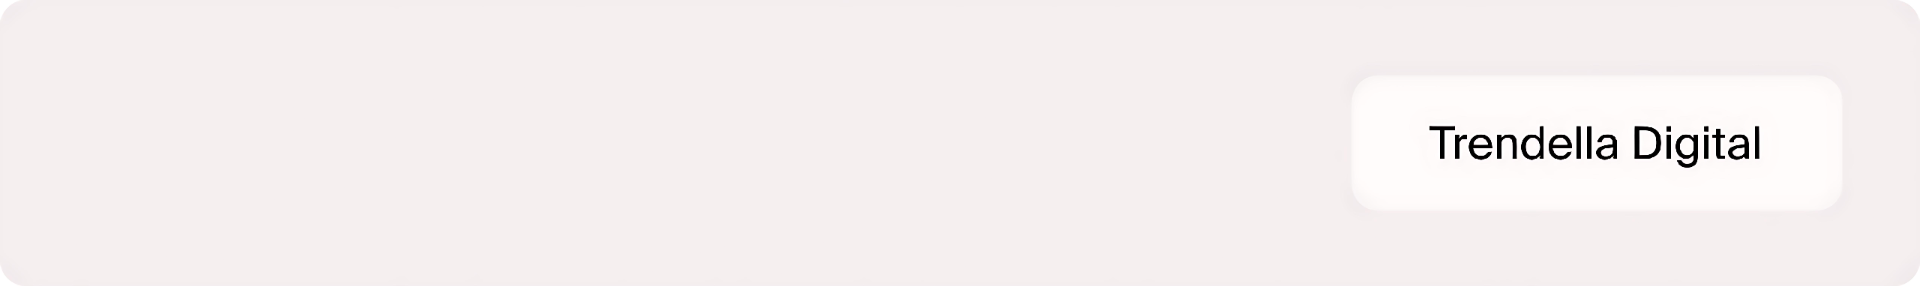
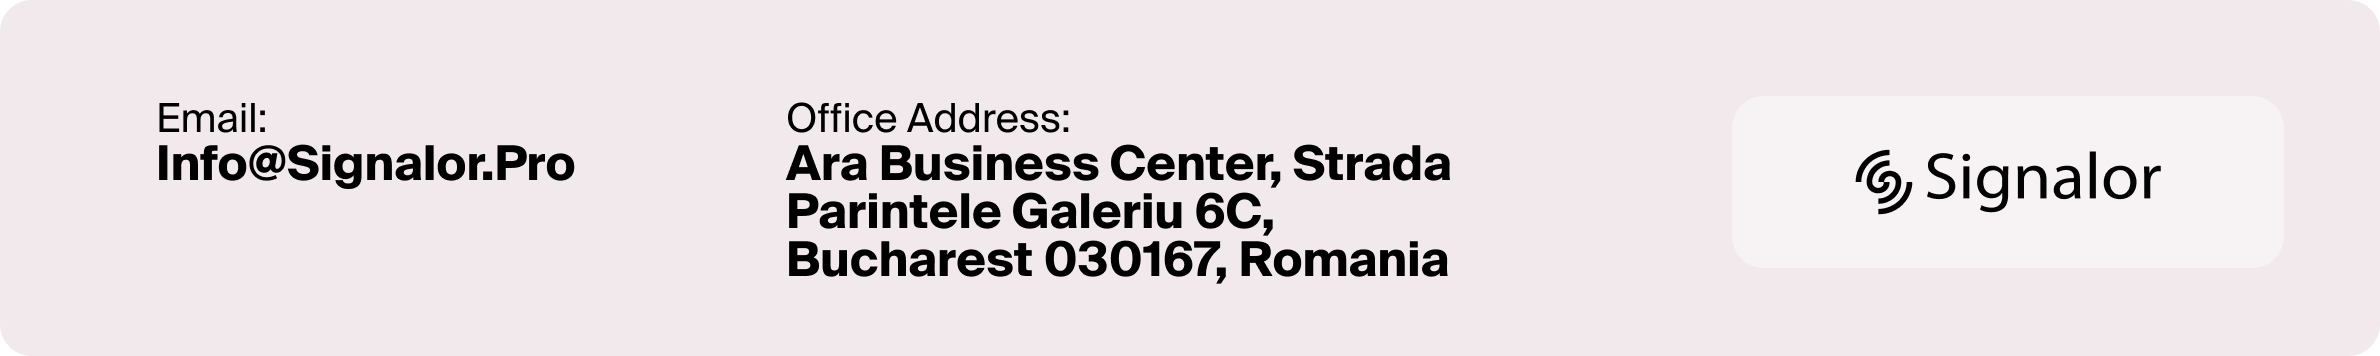
change brandname in content and ui

diff --git a/src/features/email-letters/request-form-body.tsx b/src/features/email-letters/request-form-body.tsx
@@ -9,13 +9,13 @@ export const requestFormBody = ({ username }: { username: string }) => {
         </header>
         <div class="main">
           <p style="font-size: 24px; color: #0D0D0D;">Hi, ${username}</p>
-          <p class="text">Thank you for placing your order with <strong style="font-weight: 700;">Trendella Digital</strong> — we’re excited to support your next stage of growth.</p>
+          <p class="text">Thank you for placing your order with <strong style="font-weight: 700;">Signalor</strong> — we’re excited to support your next stage of growth.</p>
           <p class="text">We’ve successfully received your request, and our team is preparing the next steps. If you selected bank transfer as your payment method, you’ll receive a separate email shortly with full payment instructions.</p>
           <p class="text">Once payment is confirmed, we’ll begin work on your selected service and guide you through the onboarding or setup process.</p>
           <p class="text">Here’s what you can expect: clear communication, expert guidance, and a strategy that actually fits how you want to grow — not just what others say you should do.</p>
-          <p class="text">If you have any questions or want to share something specific about your business before we get started, feel free to reply to this email or reach us directly at support@trendelladigital.com.</p>
+          <p class="text">If you have any questions or want to share something specific about your business before we get started, feel free to reply to this email or reach us directly at info@signalor.pro.</p>
           <p class="text">We’re truly looking forward to partnering with you.</p>
-          <p class="text" style="font-size: 18px;">Warm regards,<br /><strong style="font-weight: 700;">The Trendella Digital Team</strong></p>
+          <p class="text" style="font-size: 18px;">Warm regards,<br /><strong style="font-weight: 700;">The Signalor Team</strong></p>
         </div>
         <footer style="margin-top: 70px;">
           <img style="width: 696px; height: 110px" src="https://trendelladigital.com/images/email/footer.png" alt="full-logo" class="logoSm" />

diff --git a/src/app/[locale]/our-story/page.tsx b/src/app/[locale]/our-story/page.tsx
@@ -3,19 +3,19 @@ import type { Metadata } from 'next';
 import { BringVision, Hero, ProgressYouCan, Scale } from './components';
 
 export const metadata: Metadata = {
-  title: 'The Story Behind Trendella Digital | From Challenge to Clarity',
+  title: 'The Story Behind Signalor | From Challenge to Clarity',
   description:
-    'Discover how Trendella Digital began — and why our consulting approach is rooted in real-world growth, not recycled advice.',
+    'Discover how Signalor began — and why our consulting approach is rooted in real-world growth, not recycled advice.',
   openGraph: {
-    title: 'The Story Behind Trendella Digital | From Challenge to Clarity',
+    title: 'The Story Behind Signalor | From Challenge to Clarity',
     description:
-      'Discover how Trendella Digital began — and why our consulting approach is rooted in real-world growth, not recycled advice.',
+      'Discover how Signalor began — and why our consulting approach is rooted in real-world growth, not recycled advice.',
     images: ['https://trendelladigital.com/meta.jpg'],
   },
   twitter: {
-    title: 'The Story Behind Trendella Digital | From Challenge to Clarity',
+    title: 'The Story Behind Signalor | From Challenge to Clarity',
     description:
-      'Discover how Trendella Digital began — and why our consulting approach is rooted in real-world growth, not recycled advice.',
+      'Discover how Signalor began — and why our consulting approach is rooted in real-world growth, not recycled advice.',
     images: ['https://trendelladigital.com/meta.jpg'],
   },
 };

diff --git a/src/shared/ui/components/footer.tsx b/src/shared/ui/components/footer.tsx
@@ -29,8 +29,8 @@ const getPolicies = () => [
 const getFooterInfo = () => [
   {
     label: 'Email:',
-    value: 'info@trendella.com',
-    href: 'mailto:info@trendella.com',
+    value: 'info@signalor.pro',
+    href: 'mailto:info@signalor.pro',
   },
   // {
   //   label: 'Phone:',
@@ -65,12 +65,7 @@ export const Footer = () => {
       <section className="flex flex-col gap-10">
         <section className="flex justify-between max-md:flex-col">
           <section className="flex w-[340px] flex-col gap-2.5 max-md:w-full">
-            <Image
-              src="/logo-white.svg"
-              alt="trendella-digital"
-              width={100}
-              height={30}
-            />
+            <Image src="/logo-white.svg" alt="logo" width={271} height={60} />
             <div className="flex flex-col gap-1">
               <Label>Social Media:</Label>
               <ShortSocials />
@@ -106,10 +101,10 @@ export const Footer = () => {
         </div>
       </section>
       <section className="flex items-center justify-between gap-2 border-t-[0.2px] border-white/50 px-10 py-2 max-md:flex-col-reverse max-md:items-start max-md:px-0">
-        <Text color="gray">
+        {/* <Text color="gray">
           © {new Date().getFullYear()} Trendella International OÜ All Rights
           Reserved.
-        </Text>
+        </Text> */}
         <nav className="flex items-center gap-4 max-md:grid max-md:grid-cols-2 max-md:items-start">
           {getPolicies().map(item => (
             <Link

diff --git a/src/features/email-letters/payment-form-body.tsx b/src/features/email-letters/payment-form-body.tsx
@@ -12,8 +12,8 @@ export const paymentFormBody = ({ username }: { username: string }) => {
           <p class="text">Thanks again for your order. To get started, we just need to confirm your payment. Below you’ll find the details to complete your bank transfer.</p>
           <p class="text">Please include your order number as the payment reference to help us match your payment quickly. Once the transfer is received and verified, we’ll notify you and begin preparing your service setup and schedule.</p>
           <p class="text">If anything in this process is unclear — or if you’d prefer to speak with someone — just reply to this email. We’re happy to walk you through it.</p>
-          <p class="text">Your growth journey with Trendella Digital is just beginning, and we’re here to make every step as smooth and intentional as possible.</p>
-          <p class="text" style="font-size: 18px;">Best,<br /><strong style="font-weight: 700;">Trendella Digital Operations</strong></p>
+          <p class="text">Your growth journey with Signalor is just beginning, and we’re here to make every step as smooth and intentional as possible.</p>
+          <p class="text" style="font-size: 18px;">Best,<br /><strong style="font-weight: 700;">Signalor Operations</strong></p>
         </div>
         <footer style="margin-top: 70px;">
           <img style="width: 696px; height: 110px" src="https://trendelladigital.com/images/email/footer.png" alt="full-logo" class="logoSm" />

diff --git a/src/app/[locale]/before-and-after/page.tsx b/src/app/[locale]/before-and-after/page.tsx
@@ -5,17 +5,17 @@ import { BookStrategyCall, Hero, Reviews } from './components';
 export const metadata: Metadata = {
   title: 'Real Client Transformations | Before & After Results',
   description:
-    'From “I hope” to “I know” — see how founders transformed their offers, systems, and revenue with Trendella Digital’s guidance.',
+    'From “I hope” to “I know” — see how founders transformed their offers, systems, and revenue with Signalor’s guidance.',
   openGraph: {
     title: 'Real Client Transformations | Before & After Results',
     description:
-      'From “I hope” to “I know” — see how founders transformed their offers, systems, and revenue with Trendella Digital’s guidance.',
+      'From “I hope” to “I know” — see how founders transformed their offers, systems, and revenue with Signalor’s guidance.',
     images: ['https://trendelladigital.com/meta.jpg'],
   },
   twitter: {
     title: 'Real Client Transformations | Before & After Results',
     description:
-      'From “I hope” to “I know” — see how founders transformed their offers, systems, and revenue with Trendella Digital’s guidance.',
+      'From “I hope” to “I know” — see how founders transformed their offers, systems, and revenue with Signalor’s guidance.',
     images: ['https://trendelladigital.com/meta.jpg'],
   },
 };

diff --git a/src/app/[locale]/(home)/page.tsx b/src/app/[locale]/(home)/page.tsx
@@ -11,20 +11,17 @@ import {
 } from './components';
 
 export const metadata: Metadata = {
-  title:
-    'Business & Marketing Consulting That Gets Results | Trendella Digital',
+  title: 'Business & Marketing Consulting That Gets Results | Signalor',
   description:
     'Turn your expertise into a high-performing business. Book your free strategy call and build with clarity, structure, and strategy that works.',
   openGraph: {
-    title:
-      'Business & Marketing Consulting That Gets Results | Trendella Digital',
+    title: 'Business & Marketing Consulting That Gets Results | Signalor',
     description:
       'Turn your expertise into a high-performing business. Book your free strategy call and build with clarity, structure, and strategy that works.',
     images: ['https://trendelladigital.com/meta.jpg'],
   },
   twitter: {
-    title:
-      'Business & Marketing Consulting That Gets Results | Trendella Digital',
+    title: 'Business & Marketing Consulting That Gets Results | Signalor',
     description:
       'Turn your expertise into a high-performing business. Book your free strategy call and build with clarity, structure, and strategy that works.',
     images: ['https://trendelladigital.com/meta.jpg'],

diff --git a/src/app/[locale]/your-growth-library/page.tsx b/src/app/[locale]/your-growth-library/page.tsx
@@ -3,17 +3,17 @@ import type { Metadata } from 'next';
 import { Hero, PopularPosts } from './components';
 
 export const metadata: Metadata = {
-  title: 'Business & Marketing Insights That Actually Help | Trendella Blog',
+  title: 'Business & Marketing Insights That Actually Help | Signalor Blog',
   description:
     'Browse our library of no-fluff, actionable articles on business structure, marketing systems, messaging, and more.',
   openGraph: {
-    title: 'Business & Marketing Insights That Actually Help | Trendella Blog',
+    title: 'Business & Marketing Insights That Actually Help | Signalor Blog',
     description:
       'Browse our library of no-fluff, actionable articles on business structure, marketing systems, messaging, and more.',
     images: ['https://trendelladigital.com/meta.jpg'],
   },
   twitter: {
-    title: 'Business & Marketing Insights That Actually Help | Trendella Blog',
+    title: 'Business & Marketing Insights That Actually Help | Signalor Blog',
     description:
       'Browse our library of no-fluff, actionable articles on business structure, marketing systems, messaging, and more.',
     images: ['https://trendelladigital.com/meta.jpg'],

diff --git a/src/app/[locale]/careers/page.tsx b/src/app/[locale]/careers/page.tsx
@@ -3,17 +3,17 @@ import type { Metadata } from 'next';
 import { Hero, HowApply, OpenRoles } from './components';
 
 export const metadata: Metadata = {
-  title: 'Join the Trendella Digital Team | Purposeful Remote Work',
+  title: 'Join the Signalor Team | Purposeful Remote Work',
   description:
     'We’re hiring marketers, strategists, and operators who care about clarity, ownership, and real impact. See open roles and apply today.',
   openGraph: {
-    title: 'Join the Trendella Digital Team | Purposeful Remote Work',
+    title: 'Join the Signalor Team | Purposeful Remote Work',
     description:
       'We’re hiring marketers, strategists, and operators who care about clarity, ownership, and real impact. See open roles and apply today.',
     images: ['https://trendelladigital.com/meta.jpg'],
   },
   twitter: {
-    title: 'Join the Trendella Digital Team | Purposeful Remote Work',
+    title: 'Join the Signalor Team | Purposeful Remote Work',
     description:
       'We’re hiring marketers, strategists, and operators who care about clarity, ownership, and real impact. See open roles and apply today.',
     images: ['https://trendelladigital.com/meta.jpg'],

diff --git a/src/app/[locale]/contact-us/page.tsx b/src/app/[locale]/contact-us/page.tsx
@@ -3,17 +3,17 @@ import type { Metadata } from 'next';
 import { Hero, Info, SendUsMessage } from './components';
 
 export const metadata: Metadata = {
-  title: 'Contact Trendella Digital | Start Your Strategy Conversation',
+  title: 'Contact Signalor | Start Your Strategy Conversation',
   description:
     'Reach out to book a free consultation or ask a question — we’re here to help you build a business you’re proud of.',
   openGraph: {
-    title: 'Contact Trendella Digital | Start Your Strategy Conversation',
+    title: 'Contact Signalor | Start Your Strategy Conversation',
     description:
       'Reach out to book a free consultation or ask a question — we’re here to help you build a business you’re proud of.',
     images: ['https://trendelladigital.com/meta.jpg'],
   },
   twitter: {
-    title: 'Contact Trendella Digital | Start Your Strategy Conversation',
+    title: 'Contact Signalor | Start Your Strategy Conversation',
     description:
       'Reach out to book a free consultation or ask a question — we’re here to help you build a business you’re proud of.',
     images: ['https://trendelladigital.com/meta.jpg'],

diff --git a/src/app/[locale]/business-consulting/page.tsx b/src/app/[locale]/business-consulting/page.tsx
@@ -13,17 +13,17 @@ import {
 } from './components';
 
 export const metadata: Metadata = {
-  title: 'Business Consulting for Solo Founders & Experts | Trendella',
+  title: 'Business Consulting for Solo Founders & Experts | Signalor',
   description:
     'Build a business that works for you — with custom strategy, structure, and systems that turn ideas into sustainable growth.',
   openGraph: {
-    title: 'Business Consulting for Solo Founders & Experts | Trendella',
+    title: 'Business Consulting for Solo Founders & Experts | Signalor',
     description:
       'Build a business that works for you — with custom strategy, structure, and systems that turn ideas into sustainable growth.',
     images: ['https://trendelladigital.com/meta.jpg'],
   },
   twitter: {
-    title: 'Business Consulting for Solo Founders & Experts | Trendella',
+    title: 'Business Consulting for Solo Founders & Experts | Signalor',
     description:
       'Build a business that works for you — with custom strategy, structure, and systems that turn ideas into sustainable growth.',
     images: ['https://trendelladigital.com/meta.jpg'],

diff --git a/src/app/[locale]/plans-and-pricing/page.tsx b/src/app/[locale]/plans-and-pricing/page.tsx
@@ -8,17 +8,17 @@ import { PackageList } from '@/features/packages/ui/list';
 import { Hero, RequestQuote } from './components';
 
 export const metadata: Metadata = {
-  title: 'Consulting Packages & Pricing | Trendella Digital',
+  title: 'Consulting Packages & Pricing | Signalor',
   description:
     'Explore transparent pricing for business and marketing consulting services — designed to meet you where you are.',
   openGraph: {
-    title: 'Consulting Packages & Pricing | Trendella Digital',
+    title: 'Consulting Packages & Pricing | Signalor',
     description:
       'Explore transparent pricing for business and marketing consulting services — designed to meet you where you are.',
     images: ['https://trendelladigital.com/meta.jpg'],
   },
   twitter: {
-    title: 'Consulting Packages & Pricing | Trendella Digital',
+    title: 'Consulting Packages & Pricing | Signalor',
     description:
       'Explore transparent pricing for business and marketing consulting services — designed to meet you where you are.',
     images: ['https://trendelladigital.com/meta.jpg'],

diff --git a/src/app/[locale]/what-to-expect/page.tsx b/src/app/[locale]/what-to-expect/page.tsx
@@ -3,17 +3,17 @@ import type { Metadata } from 'next';
 import { Hero, Map, OurPromise, WorkWithUs } from './components';
 
 export const metadata: Metadata = {
-  title: 'What It’s Like to Work With Trendella Digital',
+  title: 'What It’s Like to Work With Signalor',
   description:
     'See how our 5-phase consulting process turns uncertainty into structured growth — with real partnership at every step.',
   openGraph: {
-    title: 'What It’s Like to Work With Trendella Digital',
+    title: 'What It’s Like to Work With Signalor',
     description:
       'See how our 5-phase consulting process turns uncertainty into structured growth — with real partnership at every step.',
     images: ['https://trendelladigital.com/meta.jpg'],
   },
   twitter: {
-    title: 'What It’s Like to Work With Trendella Digital',
+    title: 'What It’s Like to Work With Signalor',
     description:
       'See how our 5-phase consulting process turns uncertainty into structured growth — with real partnership at every step.',
     images: ['https://trendelladigital.com/meta.jpg'],
